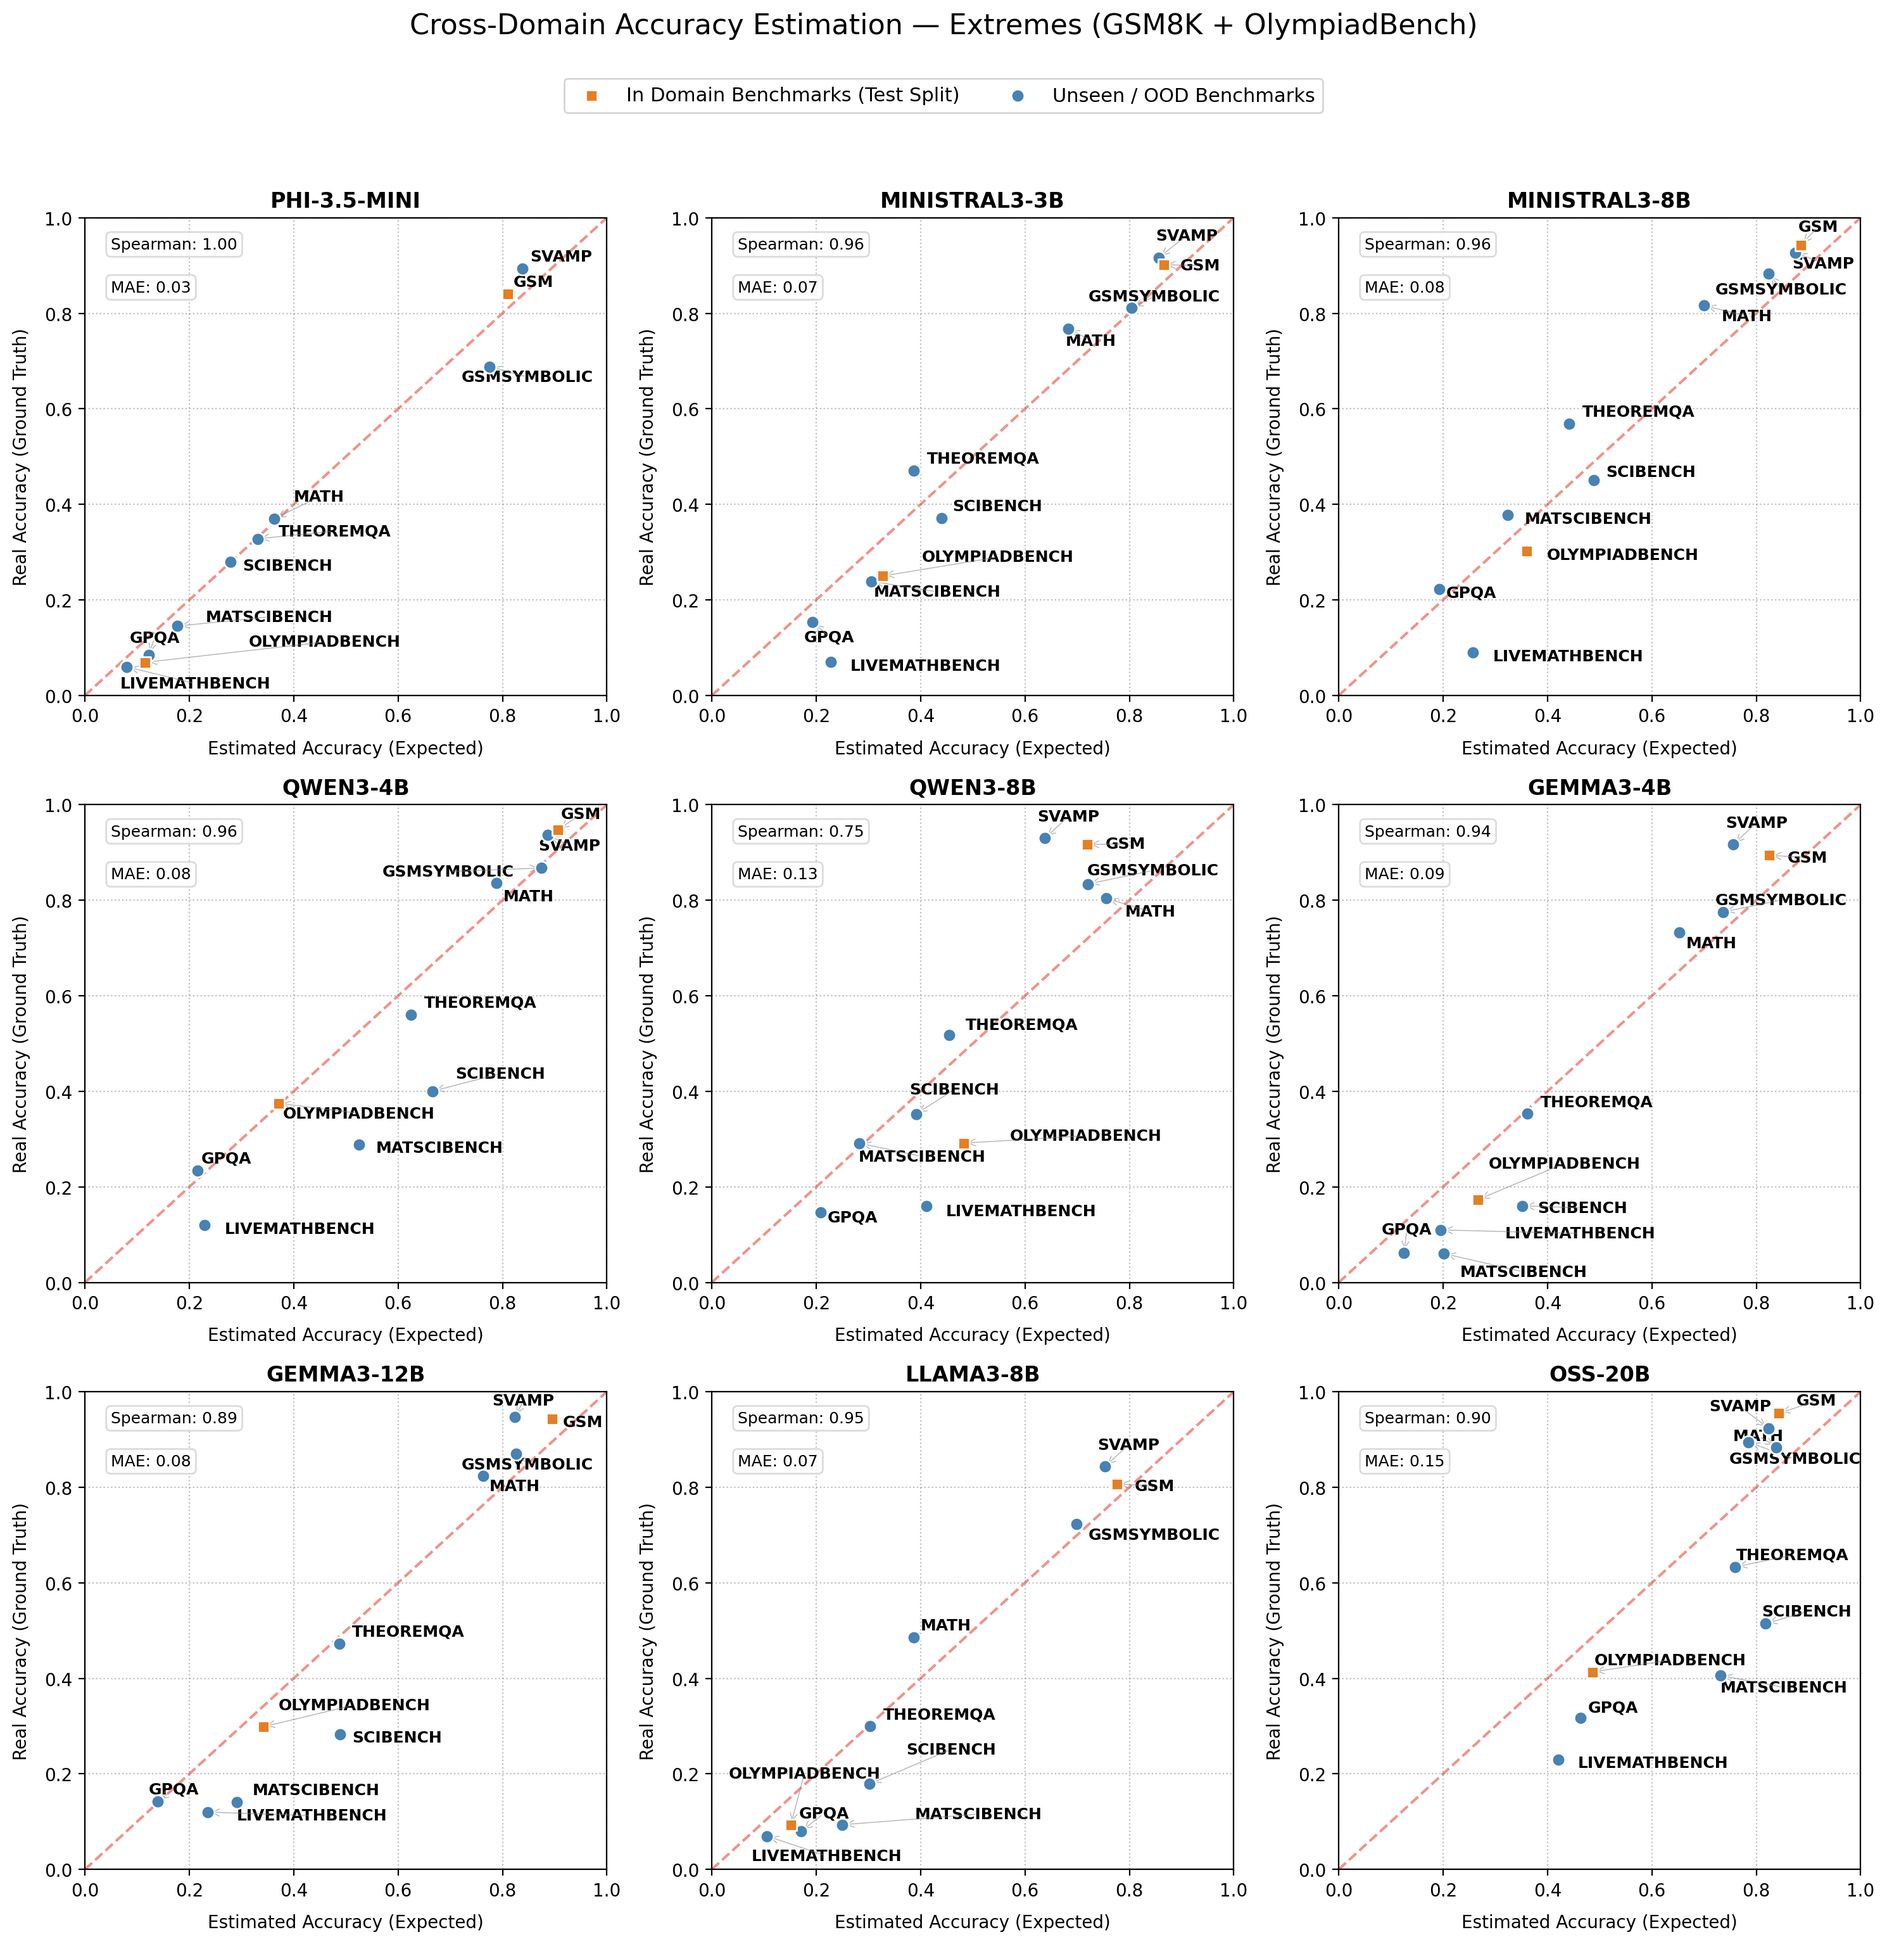
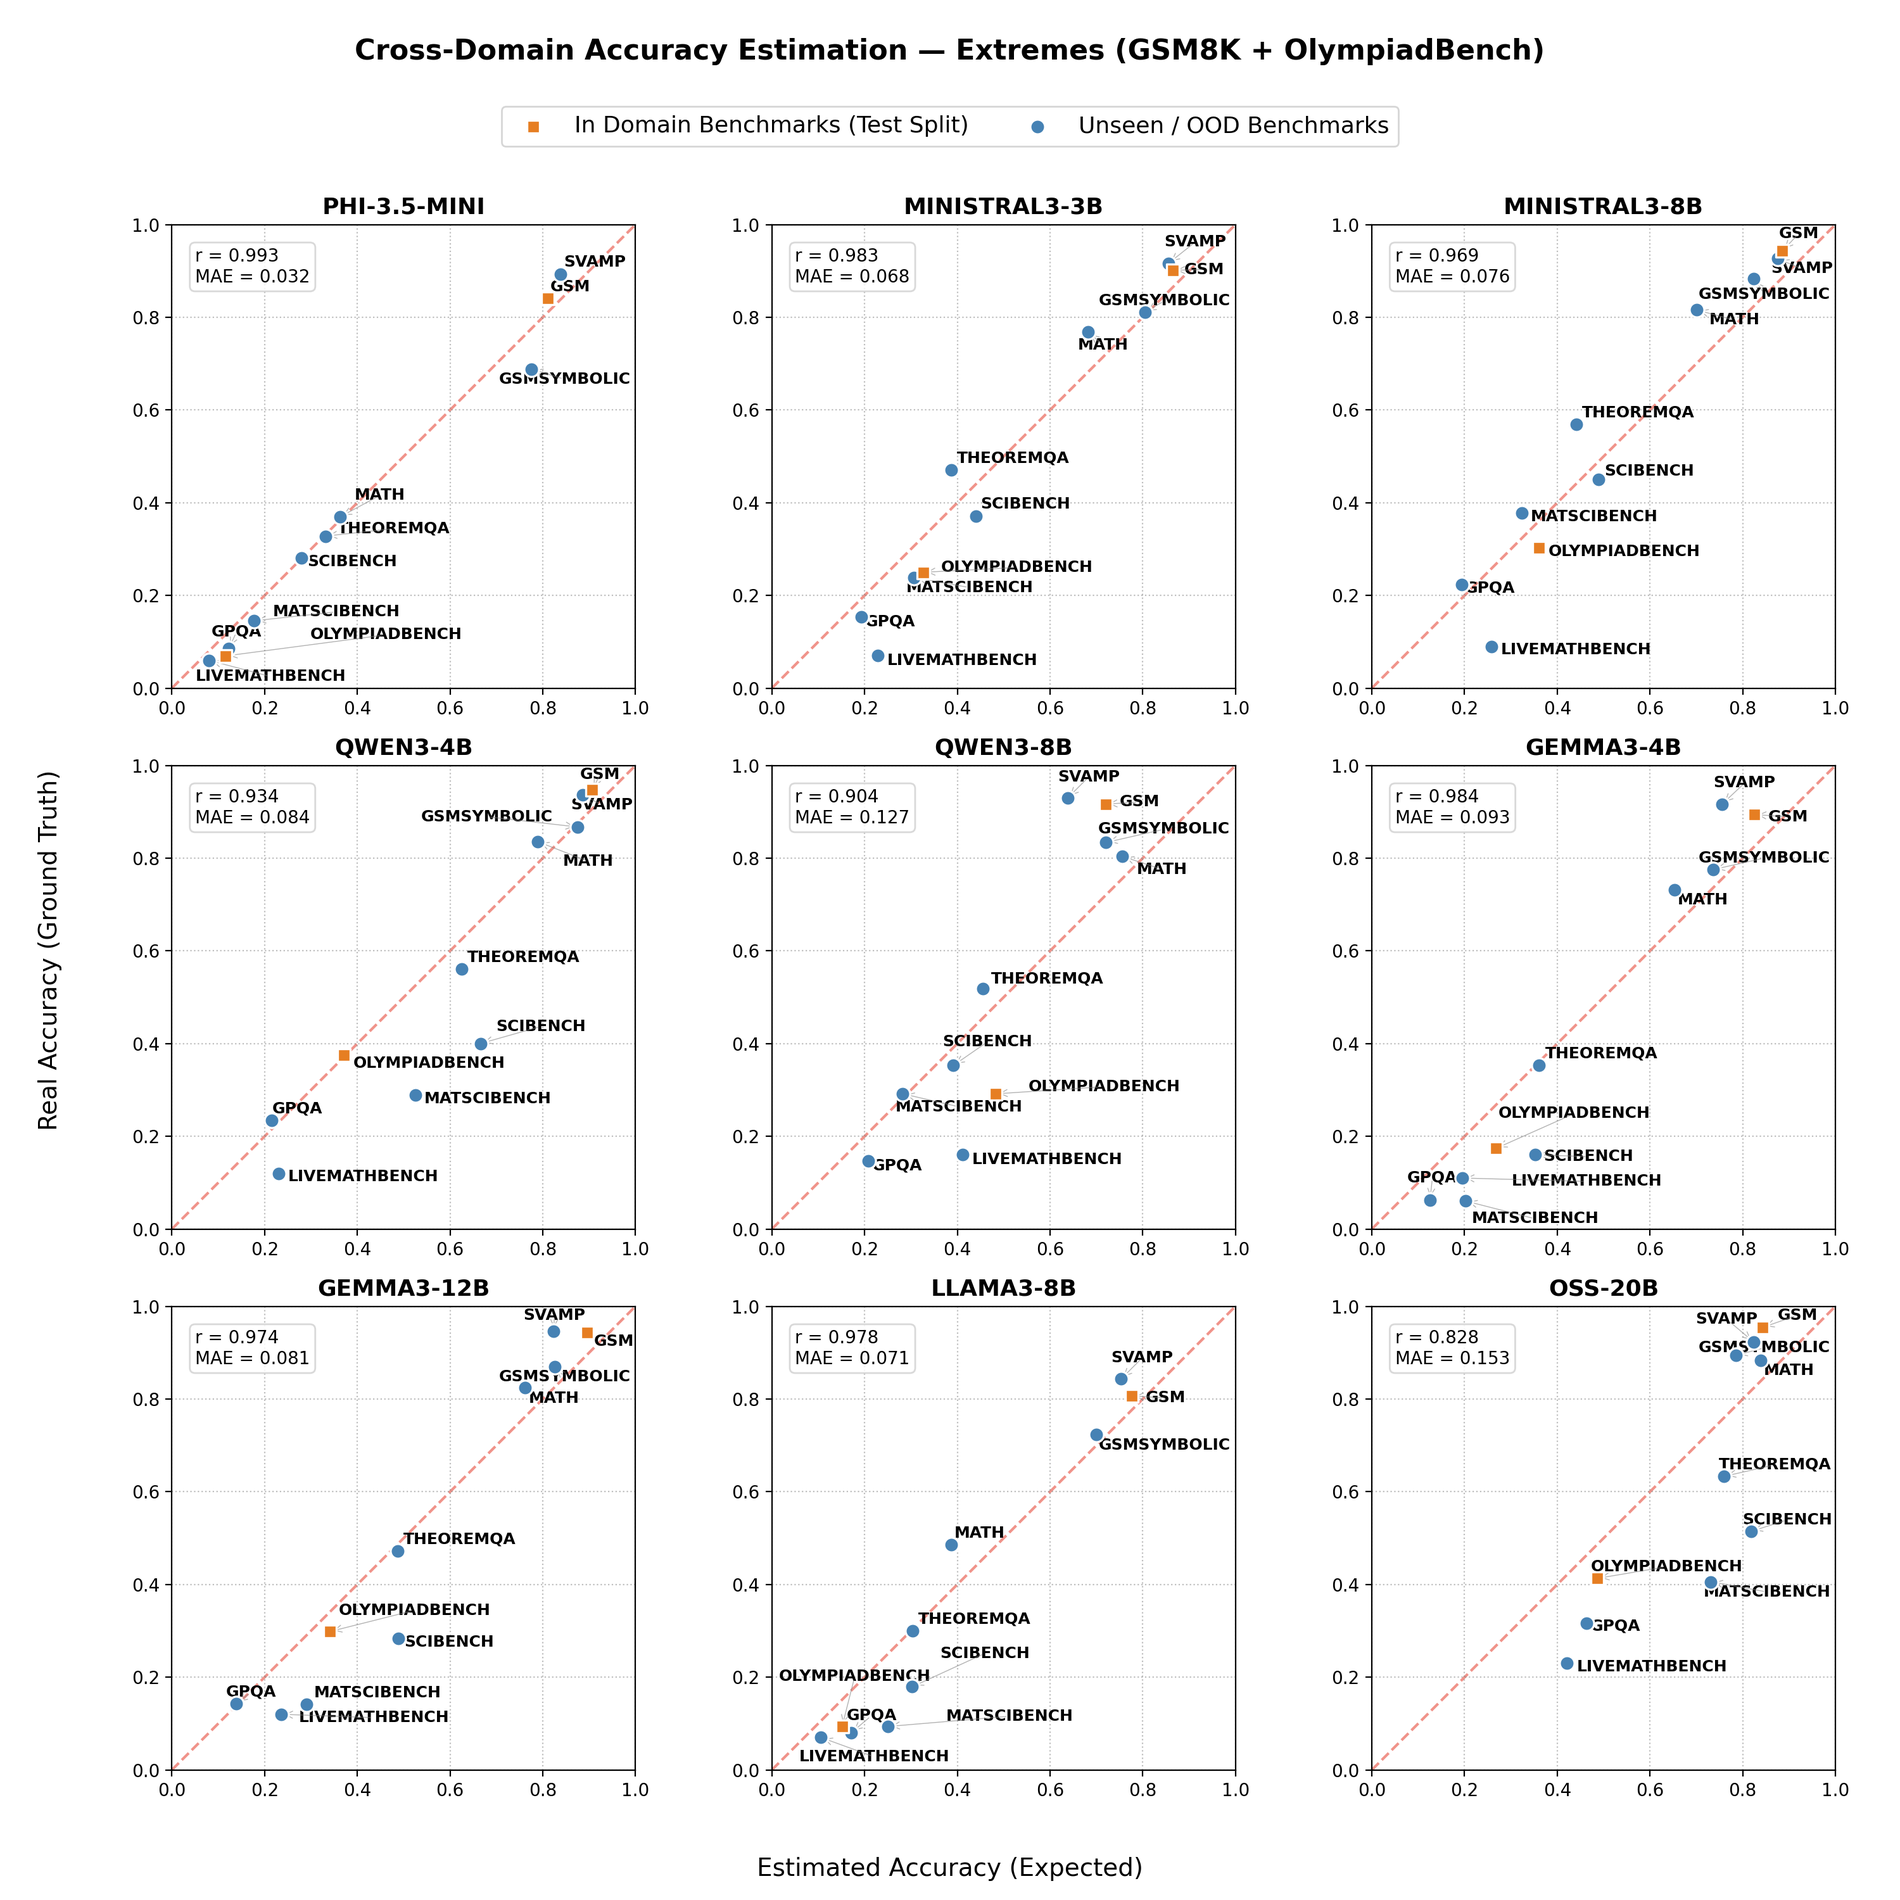
Adding results as always

diff --git a/src/scripts/train_stem_classifiers.py b/src/scripts/train_stem_classifiers.py
@@ -5,7 +5,7 @@ import os
 import numpy as np
 import torch
 from itertools import product, combinations
-from scipy.stats import spearmanr
+from scipy.stats import pearsonr
 from src.engine.train_stem_entropy_sentinel import run_training, Model
 
 train_suites = [
@@ -90,7 +90,7 @@ csv_fields = [
     "calibrate",
     "balance_classes",
     "features",
-    "spearman_rho",
+    "pearson_r",
     "mae",
 ]
 
@@ -162,7 +162,7 @@ def evaluate_config(clf, scaler, llm, benchmarks, feature_indices):
     real_vals = list(real_accs.values())
     est_vals = list(est_accs.values())
 
-    rho = spearmanr(real_vals, est_vals)[0]
+    rho = pearsonr(real_vals, est_vals)[0]
     mae = float(np.mean(np.abs(np.array(real_vals) - np.array(est_vals))))
 
     return float(rho), mae
@@ -265,7 +265,7 @@ for llm, benchmarks, clf_name, cal, bal, feat_idx in product(
             "calibrate": cal,
             "balance_classes": bal,
             "features": " ".join(feat_subset),
-            "spearman_rho": rho,
+            "pearson_r": rho,
             "mae": mae,
         }
     )
